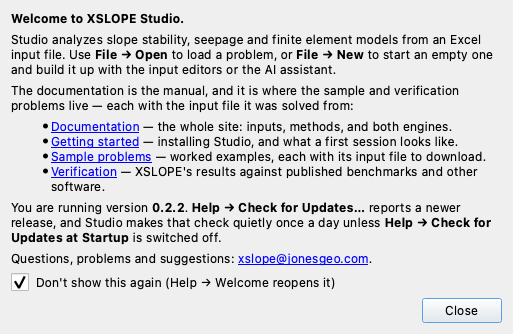
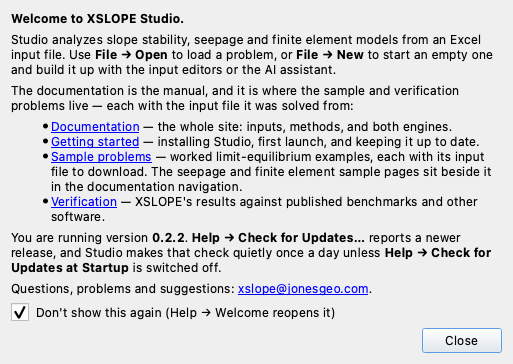
docs(studio): the welcome section shows the corrected window and the launch that skips it
Re-captured from the same offscreen pipeline after the link descriptions changed.

Claude-Session: https://claude.ai/code/session_01XjjT2aBxw8gY7EFdpoUcpj

Changed region(s): [[0.0, 0.0299, 0.9669, 0.8982], [0.8109, 0.8982, 0.9669, 0.988]]

diff --git a/docs/studio/index.md b/docs/studio/index.md
@@ -119,6 +119,10 @@ the first launch and not on later ones. Untick it to be greeted every time.
 **Help → Welcome** reopens the window whenever you want it, whichever way the box is
 set — and unticking it there brings the launch greeting back.
 
+Starting Studio by opening something — double-clicking an input file or a project
+package, or following an **Open in Studio** link — opens that project and no welcome
+over it. The next launch with nothing to open is greeted as usual.
+
 The rest of the Help menu is **Documentation**, which opens the documentation root
 in your browser, the two update items described under
 [App management](app_management.md), and **About**.
